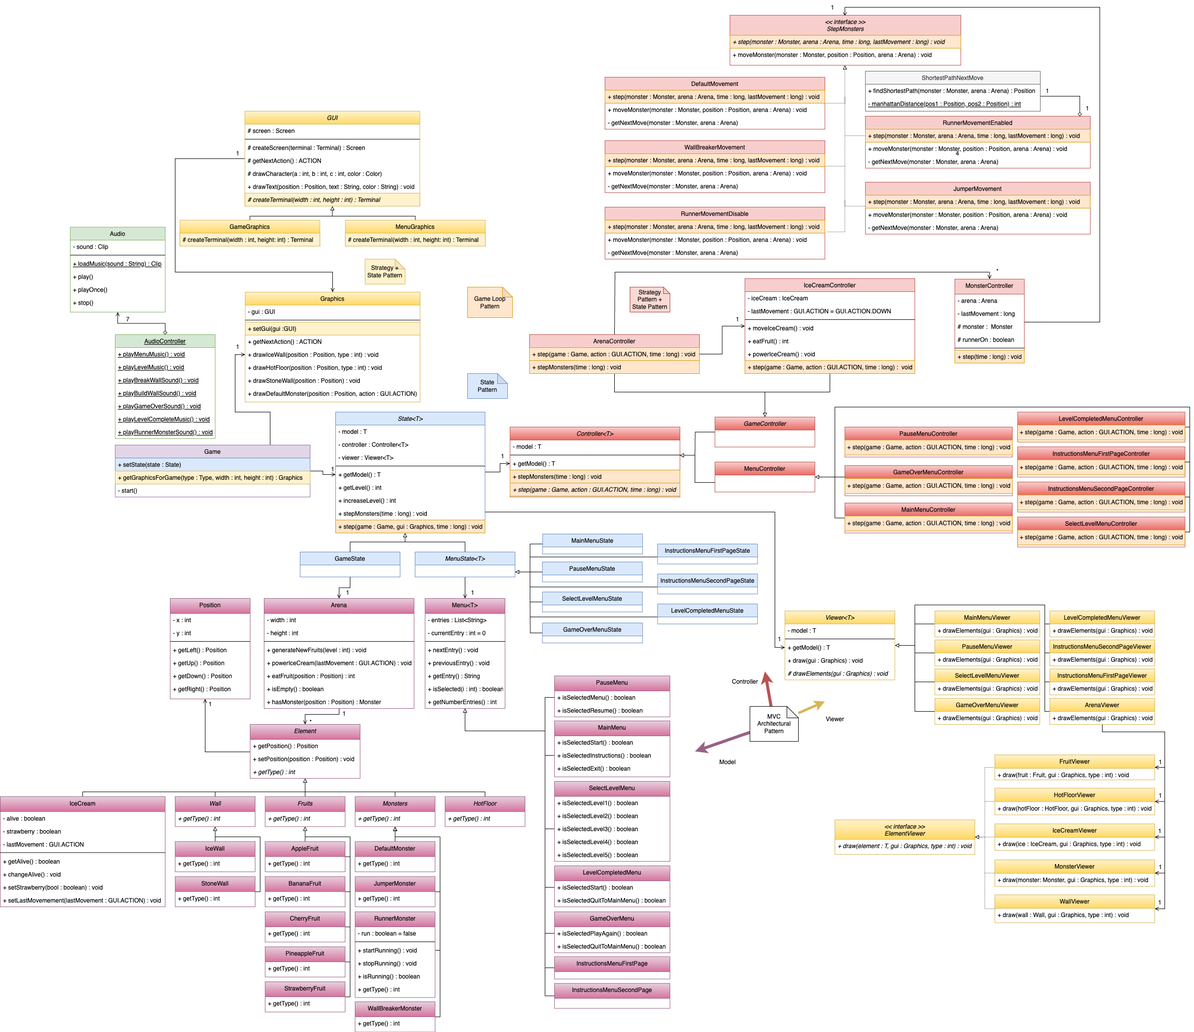
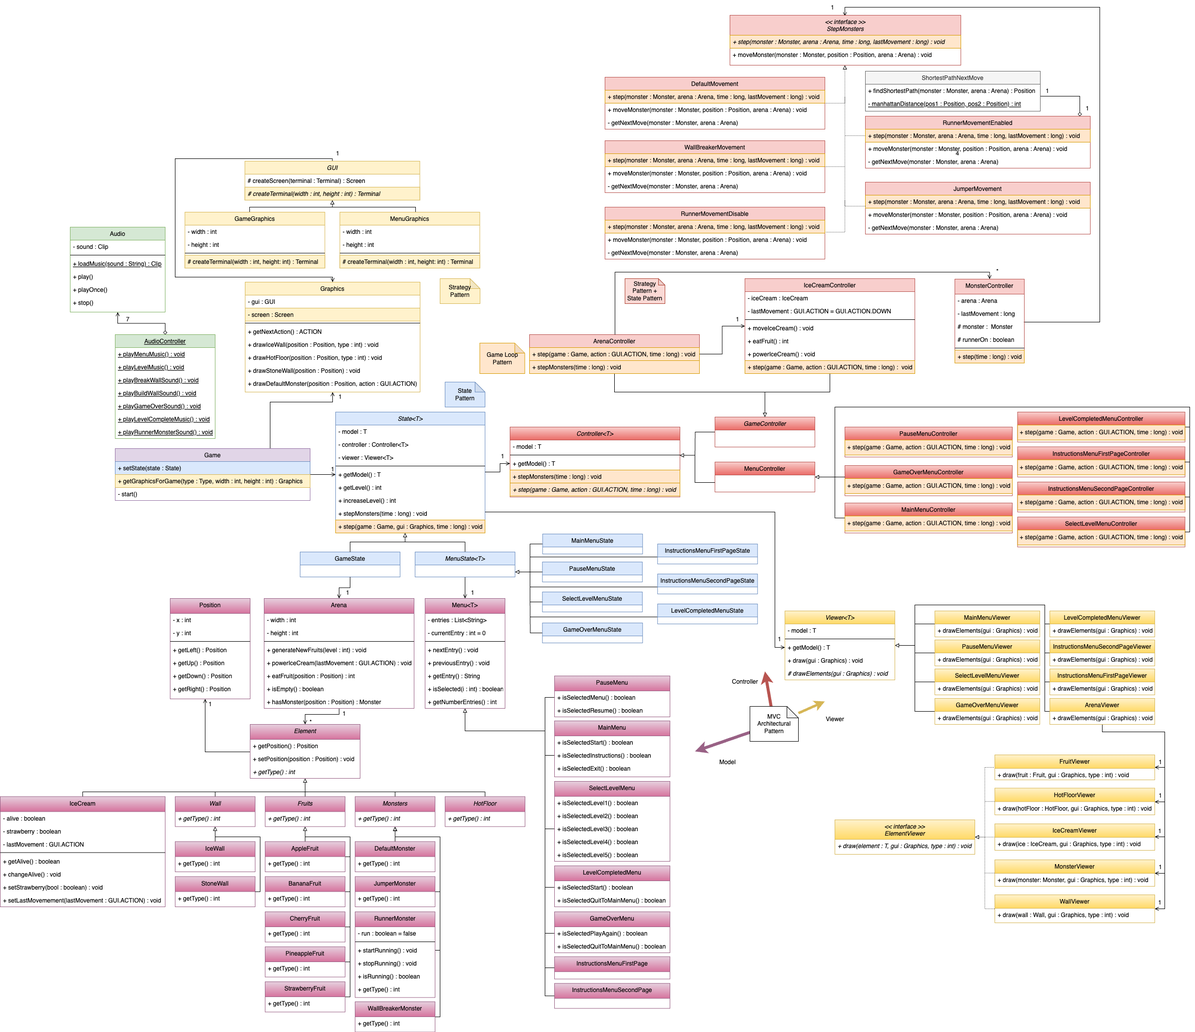
Corrected some text in docs/README

diff --git a/src/main/java/badIceCream/GUI/MenuGraphics.java b/src/main/java/badIceCream/GUI/MenuGraphics.java
@@ -14,13 +14,12 @@ import java.io.IOException;
 public class MenuGraphics extends GUI {
     int width, height;
 
-    public MenuGraphics(int width, int height) throws IOException {
+    public MenuGraphics(int width, int height) {
         this.width = width;
         this.height = height;
     }
 
     @Override
-
     protected Terminal createTerminal() throws IOException{
         try {
             String rootPath = new File(System.getProperty("user.dir")).getPath();

diff --git a/src/main/java/badIceCream/Game.java b/src/main/java/badIceCream/Game.java
@@ -18,7 +18,7 @@ public class Game {
 
     public Game() throws FontFormatException, IOException {
         this.gui = new Graphics(new MenuGraphics(140, 50));
-        this.state = new MainMenuState(new MainMenu(), 1);
+        this.state = new MainMenuState(new MainMenu(), 5);
         AudioController.playMenuMusic();
     }
 

diff --git a/docs/README.md b/docs/README.md
@@ -9,79 +9,79 @@ O esquema e desenho de alto nível deste jogo foram pensados inicialmente e reco
 
 # _Features_ Implementadas
 ## _In-Game Features_
-- Movimento do Bad Ice Cream: O personagem irá mover-se para cima (seta para cima), para baixo (seta para baixo), para esquerda (seta para a esquerda) ou para a direita (seta para a direita), de acordo com o input do utilizador;
+- Movimento do Bad Ice Cream: O personagem irá mover-se para cima (seta para cima), para baixo (seta para baixo), para esquerda (seta para a esquerda) ou para a direita (seta para a direita), de acordo com o input do utilizador.
 
 
 ![](resources/IceCreamMovement.gif)
 
 
-- Movimento do DefaultMonster: O DefaultMonster irá mover-se aleatoriamente pelos espaços livres no mapa. É o monstro mais lento, aproveita!;
+- Movimento do DefaultMonster: O DefaultMonster irá mover-se aleatoriamente pelos espaços livres no mapa. É o monstro mais lento, aproveita!
 
 ![](resources/DefaultMonsterMovement.gif)
 
 
-- Colisão do Bad Ice Cream: O personagem morre quando colide com monstros e não consegue avançar caso colida com uma parede;
+- Colisão do Bad Ice Cream: O personagem morre quando colide com monstros, foge antes que seja tarde!
 
 ![](resources/Die.gif)
 
 
-- Colisão dos Monstros: Os monstros não conseguem avançar caso colidam com outro monstro ou com uma parede;
+- Colisão dos Monstros: Os monstros não conseguem avançar caso colidam com outro monstro ou com uma parede.
 
 ![](resources/MonsterandWalls.gif)
 
-- Colisão Personagem - Fruta: Quando o personagem avança para uma zona onde já existe uma fruta, coleta a fruta e dependendo do tipo de fruta, poderá receber um _Power Up_;
+- Colisão Personagem - Fruta: Quando o personagem avança para uma zona onde existe uma fruta, coleta a fruta e dependendo do tipo de fruta, poderá receber um _Power Up_.
 
 ![](resources/FruitColision.gif)
 
 
-- Habilidade do Personagem: Quando a tecla de espaço for pressionada, o personagem irá construir uma parede de gelo até ao primeiro bloqueio que lhe aparecer (monstro, parede ou hot floor). No caso de já existir uma parede de gelo à sua frente, o personagem irá destruí-la(a destruição é interrompida quando encontrar um espaço vazio ou Stone Wall). As frutas no caminho da parede de gelo serao também congeladas;
+- Habilidade do Personagem: Quando a tecla de espaço for pressionada, o personagem irá construir uma parede de gelo até ao primeiro bloqueio que lhe aparecer (monstro, parede ou hot floor). No caso de já existir uma parede de gelo à sua frente, o personagem irá destruí-la (a destruição é interrompida quando encontrar um espaço vazio ou Stone Wall). As frutas no caminho da parede de gelo serao também congeladas.
 
 ![](resources/IceCreamHability.gif)
 
 
-- Movimento do RunnerMonster: O RunnerMonster inicialmente irá ter o comportamento de um Defaultmonster, mas em intervalos curtos de tempo, a sua velocidade será aumentada e este passará a conseguir localizar o personagem (cálculo da trajetória mais curta), por isso foge enquanto podes!;
+- Movimento do RunnerMonster: O RunnerMonster inicialmente irá ter o comportamento de um DefaultMonster, mas em intervalos curtos de tempo, a sua velocidade será aumentada e este passará a conseguir localizar o personagem (cálculo da trajetória mais curta), por isso foge enquanto podes!
 
 ![](resources/RunnerMonsterMovement.gif)
 
 
-- Movimento do JumperMonster: O JumperMonster será capaz de saltar para cima de paredes e andar em cima das mesmas;
+- Movimento do JumperMonster: O JumperMonster é capaz de saltar para cima de paredes e andar em cima das mesmas.
 
 ![](resources/JumperMonsterMovement.gif)
 
 
-- Movimento do WallBreakerMonster: O WallBreakerMonster terá a habilidade de destruir paredes de gelo do mesmo modo que o personagem principal;
+- Movimento do WallBreakerMonster: O WallBreakerMonster terá a habilidade de destruir paredes de gelo do mesmo modo que o personagem principal.
 
 ![](resources/WallBreakerMonsterMovement.gif)
 
 
-- PowerUp do Morango: O Morango é uma fruta rara que dará ao personagem um escudo (o Bad Ice Cream fica azul), que o deixará imune ao toque de um monstro por um certo período de tempo;
+- PowerUp do Morango: O Morango é uma fruta rara que dará ao personagem um escudo (o Bad Ice Cream fica azul), que o deixará imune ao toque de um monstro por um certo período.
 
 ![](resources/StrawberryPower.gif)
 
 
-- _Hot Floor_: No mapa irão existir zonas onde o IceCream não conseguirá criar paredes de gelo, apesar de ser possível caminhar por cima destas normalmente;
+- _Hot Floor_: No mapa irão existir zonas onde o IceCream não conseguirá criar paredes de gelo, apesar de ser possível caminhar por cima destas normalmente.
 
 ![](resources/HotFloors.gif)
 
-- Sons no Jogo: Os diferentes Menus e o próprio jogo terão música de fundo. Também as diferentes interações do utilizador com o jogo, terão sons correspondentes.
+- Sons no Jogo: Os diferentes Menus e o próprio jogo terão música de fundo. Também as diferentes interações do utilizador com o jogo, terão sons correspondentes. As paredes fazem som quando são destruídas ou construídas e o RunnerMonster buzina quando entra em modo perseguição, está atento!
 
 ## Menus
 
-- Menu Principal: Quando o jogo é iniciado, o "Main Menu" é aberto. Neste, o jogador poderá escolher entre começar a jogar, aceder às instruções ou sair do jogo;
+- Menu Principal: Quando o jogo é iniciado, o "Main Menu" é aberto. Neste, o jogador poderá escolher entre começar a jogar, aceder às instruções ou sair do jogo.
 
 ![](resources/MainMenu.png)
 
-- Primeira Página das Instruções: Ao escolher a opção "Instructions" no "Main Menu", o jogador tem acesso a uma página com uma descrição do jogo e os controlos para jogar, juntamente com as opçoes de avançar para a página seguinte das instruçoes ou regressar ao menu principal;
+- Primeira Página das Instruções: Ao escolher a opção "Instructions" no "Main Menu", o jogador tem acesso a uma página com uma descrição do jogo e os controlos para jogar, incluindo as opções de avançar para a página seguinte das instruçoes ou regressar ao menu principal.
 
 
 ![](resources/Instructions1.png)
 
-- Segunda Página das Instruçoes : Ao clicar na seta da direita na primeira página das intruçoes, o jogador tem acesso a uma nova página de instruçoes, onde é apresentada informaçao sobre os monstros e hot floors, juntamente com as opçoes de voltar à página anterior das instruçoes ou ao menu principal;
+- Segunda Página das Instruçoes: Ao clicar na seta da direita na primeira página das intruçoes, o jogador tem acesso a uma nova página de instruçoes, onde é apresentada informação sobre os monstros e hot floors, juntamente com as opções de voltar à página anterior das instruções ou ao menu principal.
  
 ![](resources/Instructions2.png)
 
 
-- Seleção de Nível: Ao escolher a opção "Start Game" no "Main Menu", outro menu é aberto, onde será possível escolher entre os diferentes níveis existentes. Com exceção ao nível 1, só é possível escolher um nível se o anterior tiver sido completado com sucesso;
+- Seleção de Nível: Ao escolher a opção "Start Game" no "Main Menu", outro menu é aberto, onde será possível escolher entre os diferentes níveis existentes. Com exceção ao nível 1, só é possível escolher um nível se o anterior tiver sido completado com sucesso.
 
 ![](resources/LevelSelect.png)
 
@@ -91,12 +91,12 @@ O esquema e desenho de alto nível deste jogo foram pensados inicialmente e reco
 ![](resources/Pause.png)
 
 
-- Menu de Fim de Nível: Após um nível ser terminado, um novo menu irá abrir, onde o utilizador poderá escolher entre continuar para o próximo nível, ou retornar ao menu principal;
+- Menu de Fim de Nível - Vitória: Quando conseguires saciar o Bad Ice Cream por completo, comendo todas as frutas de um mapa, ganhaste esse nível. De seguida, um novo menu vai abrir-se, onde o utilizador poderá escolher entre continuar para o próximo nível, ou retornar ao menu principal.
 
 ![](resources/LevelComplete.png)
 
 
-- Menu de Fim de Jogo: Ao ser morto por um dos monstros, será aberto um menu onde o utilizador poderá escolher entre jogar novamente, ou voltar ao menu principal.
+- Menu de Fim de Jogo - Derrota: Ao ser apanhado por um dos monstros, será aberto um menu onde o utilizador poderá escolher entre jogar novamente, ou voltar ao menu principal.
 
 ![](resources/GameOver.png)
 
@@ -108,13 +108,13 @@ Todas as _features_ planeadas inicialmente foram implementadas.
 ## Padrão Arquitetural
 ### Contexto do Problema
 
-Desde o início do projeto, visou-se desenvolver uma estrutura que fosse bem organizada, de modo ao código ser fácil de ler e de se tornar trivial a localização de snippets de código nos diversos ficheiros, permitindo ainda, que diversas pessoas consigam alterar o código, sem prejudicarem o trabalho dos outros.
+Desde o início do projeto, visou-se desenvolver uma estrutura que fosse bem organizada, de modo a permitir a rápida leitura e compreensão do código, bem como facilitar a localização de snippets de código nos diversos ficheiros, permitindo ainda, que diversas pessoas consigam alterar o código, sem prejudicarem o trabalho dos outros.
 
 ### Padrão
-Com estes problemas em mente, optou-se por aplicar o padrão arquitetural MVC (Model View Controller), que divide o programa em três camadas, _View_, _Model_ e _Controller_. A camada _Model_ contém apenas os dados, que caso sofram mudanças, informará a _View_ . Por sua vez a _View_ é responsável pela interface com a qual o jogado vai interagir, tendo em conta os dados atuais e envia ações do utilizador para o _Controller_. Esta última camada interpreta os inputs recebidos pelo utilizador e fornecidos pelo _View_ e atualiza o _Model_ com base nessa informação. 
+Neste sentido, optou-se por aplicar o padrão arquitetural MVC (Model View Controller), que divide o programa em três camadas, _View_, _Model_ e _Controller_. A camada _Model_ contém apenas os dados, que caso sofram mudanças, informará a _View_ . Por sua vez a _View_ é responsável pela interface com a qual o jogado vai interagir, tendo em conta os dados atuais, e enviando ações do utilizador para o _Controller_. Esta última camada interpreta os inputs recebidos pelo utilizador e fornecidos pelo _View_ e atualiza o _Model_ com base nessa informação, é o "cérebro" do jogo. 
 
 ### Implementação
-A implantação deste padrão pode ser representada através do seguinte modelo U.M.L:
+A implementação deste padrão pode ser representada através do seguinte modelo U.M.L:
 
 <img src="resources/MVC.drawio.png" width="1000" height="500" />
 
@@ -128,7 +128,7 @@ As 3 classes podem ser encontradas nos seguintes links:
 A escolha deste padrão trouxe vantagens e desvantagens:
 
 Vantagens
-- Melhorar a manutenção do código, uma vez que é fácil de localizar os erros e em caso de adições apenas é necessário criar um novo elemento viewer, controller ou model;
+- Melhorar a manutenção do código, uma vez que é fácil de localizar os erros e em caso de adições apenas é necessário criar um elemento viewer, controller ou model;
 - Simplicidade na criação de testes;
 - Código fácil de ler;
 - Divisão em partes "independentes", permite a várias pessoas desenvolver o código em simultâneo, sem conflitos.
@@ -137,15 +137,16 @@ Desvantagens
 - É necessário um melhor planeamento prévio e mais atenção na escrita do código, uma vez que as componentes estão separadas.
 
 ## _State Pattern_
-### Contexto do Problema
-Ao longo do jogo, é possível que um objeto se encontre em diferentes estados, o que pode afetar o comportamento de todo o programa. Haveria então uma grande dependência em if ’s e switch cases’s, o que tornaria a interpretação do código mais complexa, uma vez que todos os comportamentos seriam executados por apenas uma classe, bem como dificultaria a extensão do código.
+### Game e Menu States
+#### Contexto do Problema
+É espectável que diferentes partes do jogo tenham comportamentos distintos. Um forma ineficaz de resolver este problema seria através de uma grande dependência em if ’s e switch cases’s, o que tornaria a interpretação do código mais complexa, uma vez que todos os comportamentos seriam executados por apenas uma classe, bem como dificultaria a extensibilidade do código.
 
-### Padrão
-O _State Pattern_ permite resolver este problema facilmente, pegando no código que posteriormente estaria numa só classe e dividindo-o em várias classes, fazendo com que o objeto consiga mudar de comportamento quando o seu estado muda. Esta abordagem faz sentido quando um objeto atua de forma diferente consoante o seu estado interno. (Como por exemplo nos estados dos diversos Menus utilizados)
-### Implementação
+#### Padrão
+O _State Pattern_ permite resolver este problema facilmente, aproveitando o código que estaria numa só classe e dividindo-o em várias classes, fazendo com que o objeto consiga mudar de comportamento quando o seu estado muda. Esta abordagem faz sentido quando um objeto atua de forma diferente consoante o seu estado interno. (O jogo pode estar em modo "jogo" ou modo "menu", e dentro de cada categoria, existem ainda outros estados possívels, como os vários menus)
+
+#### Implementação
 Posto isto, utilizou-se este padrão nas seguintes classes, representadas pelo seguinte modelo UML:
 
-#### Game e Menu States
 Os controladores do jogo alteram o estado do programa, consoante o acontecimento de algum evento. (Por exemplo, transição de game state para PauseMenu assim que utilizador pressiona "ESC", entre outros)
 
 <img src="resources/State.png" width="1000" height="400" />
@@ -166,6 +167,26 @@ O código para as classes que estendem MenuState, encontram-se nos seguintes lin
 - LevelCompletedMenuState: https://github.com/FEUP-LDTS-2023/project-l10gr08/blob/main/src/main/java/badIceCream/states/LevelCompletedMenuState.java
 #
 
+### Game e Menu Graphics
+#### Contexto do Problema
+A representação dos vários elementos e as suas variantes em fonte, implicou a inclusão de duas fontes no jogo, uma para os Menus e outra para o Jogo. Neste sentido, utilizou-se o strategy pattern para definir em qual os gráficos a serem utilizados. Sempre que o jogo passa de um menu para o jogo em si, altera o seu estado, altera os gráficos para GameGraphics. De igual modo, se durante o jogo, o jogador perder, ganhar ou pressionar o "ESC" para fazer pausa, os gráficos passam de GameGraphics para MenuGraphics. A classe Graphics tem um "GUI" (classe abstrata), que poderá ser um GameGraphics ou um MenuGraphics, e na alteração de estado do jogo, o Graphics recebe um novo "GUI" e apenas se limita a chamar o método "createScreen" (não importa como está implementado por GameGraphics ou MenuGraphics). Caso fosse necessário criar uma fonte, seria extremamente fácil.
+
+#### Padrão
+Este padrãos foi utilizado pelo Graphics, na medida em que, o jogo inclui dois tipos de gráficos diferentes, a saber: MenuGraphics e GameGraphics. Deste modo, a alteração de um tipo de gráficos para outro é feita através do Strategy Pattern. Os controladores são responsáveis por informar o Game que o estado dos gráficos alterou, quando necessário.
+Sendo assim, o Game altera o seu campo privado "Graphics", criado com um dos gráficos existentes: GameGraphics ou MenuGraphics, em tempo de execução.
+
+#### Implementação
+A implementação destes padrões é representada através do seguinte modelo UML:
+
+<img src="resources/State2.png"/>
+
+O código para as classes envolvidas encontra-se nos seguintes links:
+- GUI: https://github.com/FEUP-LDTS-2023/project-l10gr08/blob/main/src/main/java/badIceCream/GUI/GUI.java
+- GameGraphics: https://github.com/FEUP-LDTS-2023/project-l10gr08/blob/main/src/main/java/badIceCream/GUI/GameGraphics.java
+- MenuGraphics: https://github.com/FEUP-LDTS-2023/project-l10gr08/blob/main/src/main/java/badIceCream/GUI/MenuGraphics.java
+- Graphics: https://github.com/FEUP-LDTS-2023/project-l10gr08/blob/main/src/main/java/badIceCream/GUI/Graphics.java
+- Game: https://github.com/FEUP-LDTS-2023/project-l10gr08/blob/main/src/main/java/badIceCream/Game.java
+
 ### Consequências
 A escolha deste padrão trouxe várias vantagens:
 
@@ -175,35 +196,14 @@ Vantagens
 - Torna a correção do código e a criação de testes mais simples;
 - Ao introduzir novos estados deixa de ser necessário mudar estados já existentes.
 
-## _Strategy Pattern e State Pattern_
-### Game e Menu Graphics
-#### Contexto do Problema
-A representação dos vários elementos e suas variantes em fonte, implicou a inclusão de duas fontes no jogo, uma para os Menus e outra para o Jogo. Neste sentido, utilizou-se o strategy pattern para definir em qual os gráficos a serem utilizados. Sempre que o jogo passa de um menu para o jogo em si, cria um novo estado e, altera os gráficos para GameGraphics. De igual modo, se enquanto o jogo, o jogador perder, ganhar ou pressionar o "ESC" para fazer pausa, os gráficos passam de GameGraphics para MenuGraphics.
+## _Strategy e State Pattern_
+### Contexto do Problema
+O algoritmo que movimenta os monstros é diferente consoante o tipo de monstro, pelo que se criou uma interface "StepMonsters", com dois métodos. No jogo estão presentes 5 tipos diferentes de movimentos de monstros (Default, WallBreaker, Jumper, RunnerEnabled e RunnerDisabled). O tipo de movimento é definido em tempo de execução, na medida em que a classe MonsterController está encarregue de definir o movimento de cada monstro. Já que o Runner pode ter dois movimentos diferentes (modo perseguição ou aletatório), cabe ao controlador alterar o comportamento destes monstros. Este padrão é uma junção com algumas alterações do Strategy Pattern e State Pattern.
 
-#### Padrão
-Estes padrões foram utilizados pelo Graphics, na medida em que, o jogo inclui dois tipos de gráficos diferentes, a saber: MenuGraphics e GameGraphics. Deste modo, a alteração de um tipo de gráficos para outro é feita através do Strategy Pattern. Os controladores são responsáveis por informar o Game que o estado dos gráficos alterou, quando necessário.
-Sendo assim, o Game altera o seu campo privado "Graphics", que é criado com um dos gráficos existentes: GameGraphics ou MenuGraphics, em tempo de execução.
+### Padrão
+Recorreu-se ao design pattern Strategy, que define algoritmos diferentes para o movimento dos monstros, consoante o tipo de monstro em questão. As entidades que chamam estes métodos não têm informação nem interesse acerca de como estão implementados cada um deles, estando apenas interessados em executá-los. O State pattern aparece porque ao fim de algum tempo, o comportamento do Runner Monsters é alterado pelo controlador.
 
-#### Implementação
-A implementação destes padrões é representada através do seguinte modelo UML:
-
-<img src="resources/StateStrategy2.png"/>
-
-O código para as classes envolvidas encontra-se nos seguintes links:
-- GUI: https://github.com/FEUP-LDTS-2023/project-l10gr08/blob/main/src/main/java/badIceCream/GUI/GUI.java
-- GameGraphics: https://github.com/FEUP-LDTS-2023/project-l10gr08/blob/main/src/main/java/badIceCream/GUI/GameGraphics.java
-- MenuGraphics: https://github.com/FEUP-LDTS-2023/project-l10gr08/blob/main/src/main/java/badIceCream/GUI/MenuGraphics.java
-- Graphics: https://github.com/FEUP-LDTS-2023/project-l10gr08/blob/main/src/main/java/badIceCream/GUI/Graphics.java
-- Game: https://github.com/FEUP-LDTS-2023/project-l10gr08/blob/main/src/main/java/badIceCream/Game.java
-
-### Movimento dos Monstros
-#### Contexto do Problema
-O movimento dos monstros difere, pelo que se criou uma interface "StepMonsters", com dois métodos. No jogo estão presentes 5 tipos diferentes de movimentos de monstros (Default, WallBreaker, Jumper, RunnerEnabled e RunnerDisabled). O tipo de movimento é definido em tempo de execução, na medida em que a classe MonsterController está encarregue de definir o movimento de cada monstro. Já que o Runner pode ter dois movimentos diferentes (modo perseguição e aletatório), cabe ao controlador alterar o comportamento destes monstros. Este padrão é uma junção com algumas alterações do Strategy Pattern e State Pattern.
-
-#### Padrão
-Recorreu-se ao design pattern Strategy, que define algoritmos diferentes para o movimento dos monstros, consoante o tipo de monstro em questão. As entidades que chamam estes métodos não têm informação acerca de como estão implementados cada um deles, estando apenas interessados em executá-los. O State pattern aparece porque ao fim de algum tempo, o comportamento do Runner Monsters é alterado pelo controlador.
-
-#### Implementação
+### Implementação
 A implementação destes padrões é representada através do seguinte modelo UML:
 
 <img src="resources/StateStrategy.png"/>
@@ -220,14 +220,21 @@ O código para as classes que utilizam este padrão encontra-se nos seguintes li
 
 ### Consequências
 Desta forma, quando se pretende executar _step_ de qualquer monstro, faz-se via _MonsterController_ e este encarrega-se de executar o respetivo movimento de cada monstro.
-Para além disso, o Monster Controller altera o estado (tipo de movimento) do Runner Monster, passado de modo perseguição para modo aleatório, e vice-versa.
+Além disso, o Monster Controller altera o estado (tipo de movimento) do Runner Monster, passado de modo perseguição para modo aleatório, e vice-versa.
+
+Vantagens
+- Fácil extensibilidade do código (criar novo movimento);
+- Mais fácil manter o código;
+- Mais fácil compreensão do código;
+- Torna a correção do código e a criação de testes mais simples;
+- Ao introduzir novos estados deixa de ser necessário mudar estados já existentes.
 
 ## _Game Loop Pattern_
 ### Contexto do Problema
 Por se tratar de um jogo, existe um padrão de desenho evidente. O jogo funciona como um loop que vai iterando e fazendo alterações ao seu estado.
 
 ### Padrão
-Este padrão consiste num loop onde é controlado o tempo de cada iteração, permitindo avançar mais rapidamente ou lentamente no jogo. O método "step" utilizado por várias classes, bem como o método "stepMonsters".
+Este padrão consiste num loop onde é controlado o tempo de cada iteração, permitindo avançar mais rápida ou lentamente no jogo. O método "step" utilizado por várias classes, bem como o método "stepMonsters" faz a magia acontecer (movimenta os monstros e o IceCream).
 
 ### Implementação
 A implementação deste padrão é representada através do seguinte modelo UML:
@@ -261,7 +268,7 @@ O código que reflete este padrão encontra-se nos seguintes links:
 Desta forma, consegue-se controlar a fluidez e a progressão do jogo ao longo do tempo.
    
 ## AudioController
-O jogo desenvolvido inclui diversos sons, a saber:
+O jogo desenvolvido incluiu diversos sons, a saber:
 - Música de Menu
 - Música de Jogo
 - Música de Vitória
@@ -270,7 +277,7 @@ O jogo desenvolvido inclui diversos sons, a saber:
 - Som de construção de parede de gelo
 - Som de destruição de parede de gelo
 
-Para garantir que existe apenas uma instância de cada música, e evitar a criação de diversas versões do mesmo som, inclui-se a classe AudioController, com 7 membros estáticos, cada um para cada som presente no jogo. Cada som é carregado apenas quando necessário, e, adicionalmente garantimos que o mesmo som apenas é criado uma vez. Sempre que for necessário produzir um som, faz-se via AudioController (ex: AudioController.playMenuMusic(), que irá criar uma menuMusic caso esta ainda não tenha sido criada, e reproduzir essa música). Apesar desta classe não ser um Singleton, o princípio é o mesmo, na medida em que em todo o jogo, apenas existe uma instância de qualquer dos sons utilizados.
+Para garantir que existe apenas uma instância de cada música, e evitar a criação de diversas versões do mesmo som, inclui-se a classe AudioController, com 7 membros estáticos, cada um para cada som presente no jogo. Cada som é carregado apenas quando necessário, e, adicionalmente garantd-se que o mesmo som apenas é criado uma única vez. Sempre que for necessário produzir um som, faz-se via AudioController (ex: AudioController.playMenuMusic(), que irá criar uma menuMusic caso esta ainda não tenha sido criada, e reproduzir essa música). Apesar desta classe não ser um Singleton, o princípio é o mesmo, na medida em que em todo o jogo, apenas existe uma instância de qualquer um dos sons utilizados, criada à medida da necessidade.
 
 A implementação desta propriedade, é representada no seguinte UML:
 
